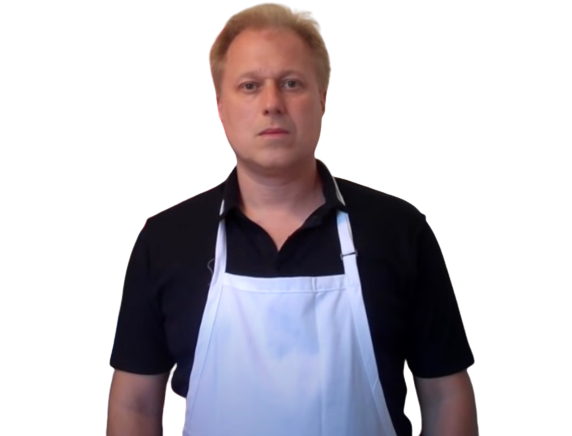
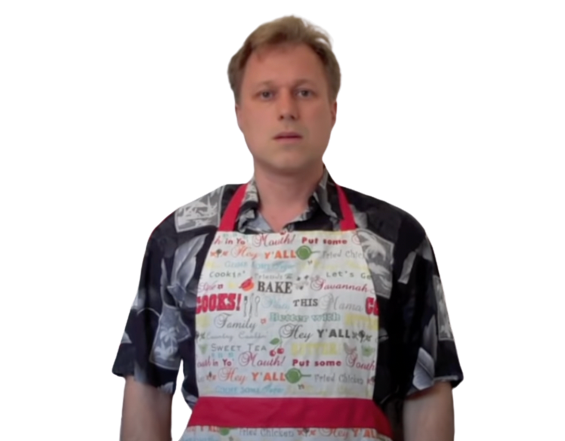
fix broken link, add new henry frontpage pic

diff --git a/index.html b/index.html
@@ -25,6 +25,6 @@
             <br>
             <br>
             <br>
-        <p style="text-align: center; color: light-grey; font-size: 12px;">Old site <a href="./odin-recipes-old/odin-recipes/index.html">here</a>.</p>
+        <p style="text-align: center; color: light-grey; font-size: 12px;">Old site <a href="./old-site/index.html">here</a>.</p>
     </body>
 </html>
